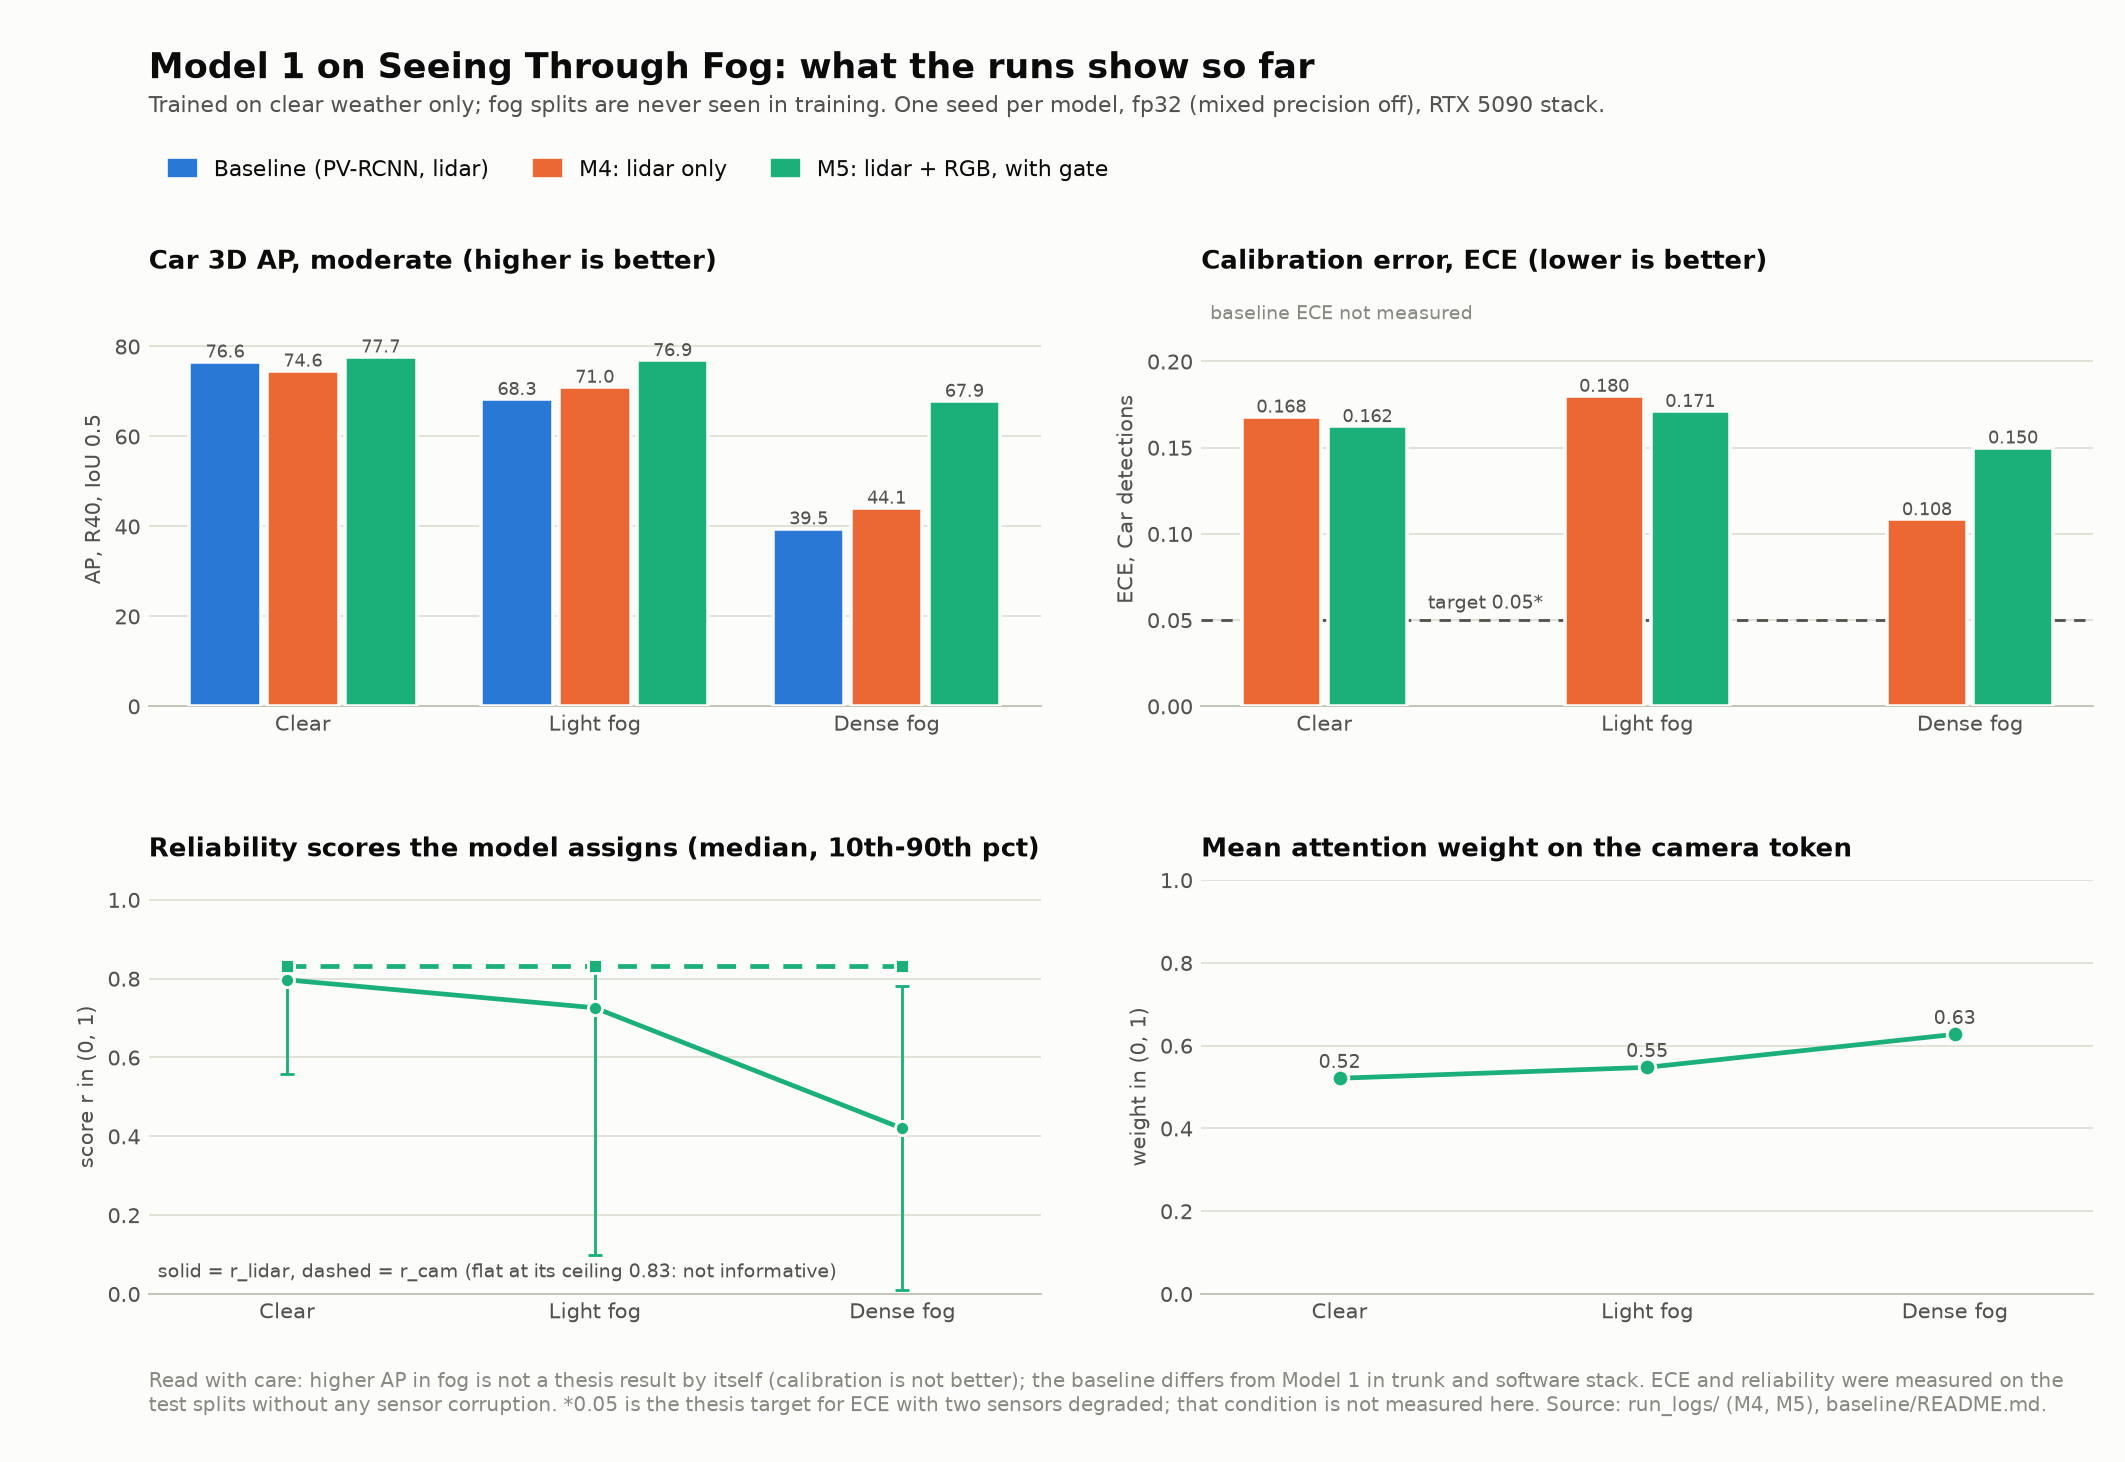
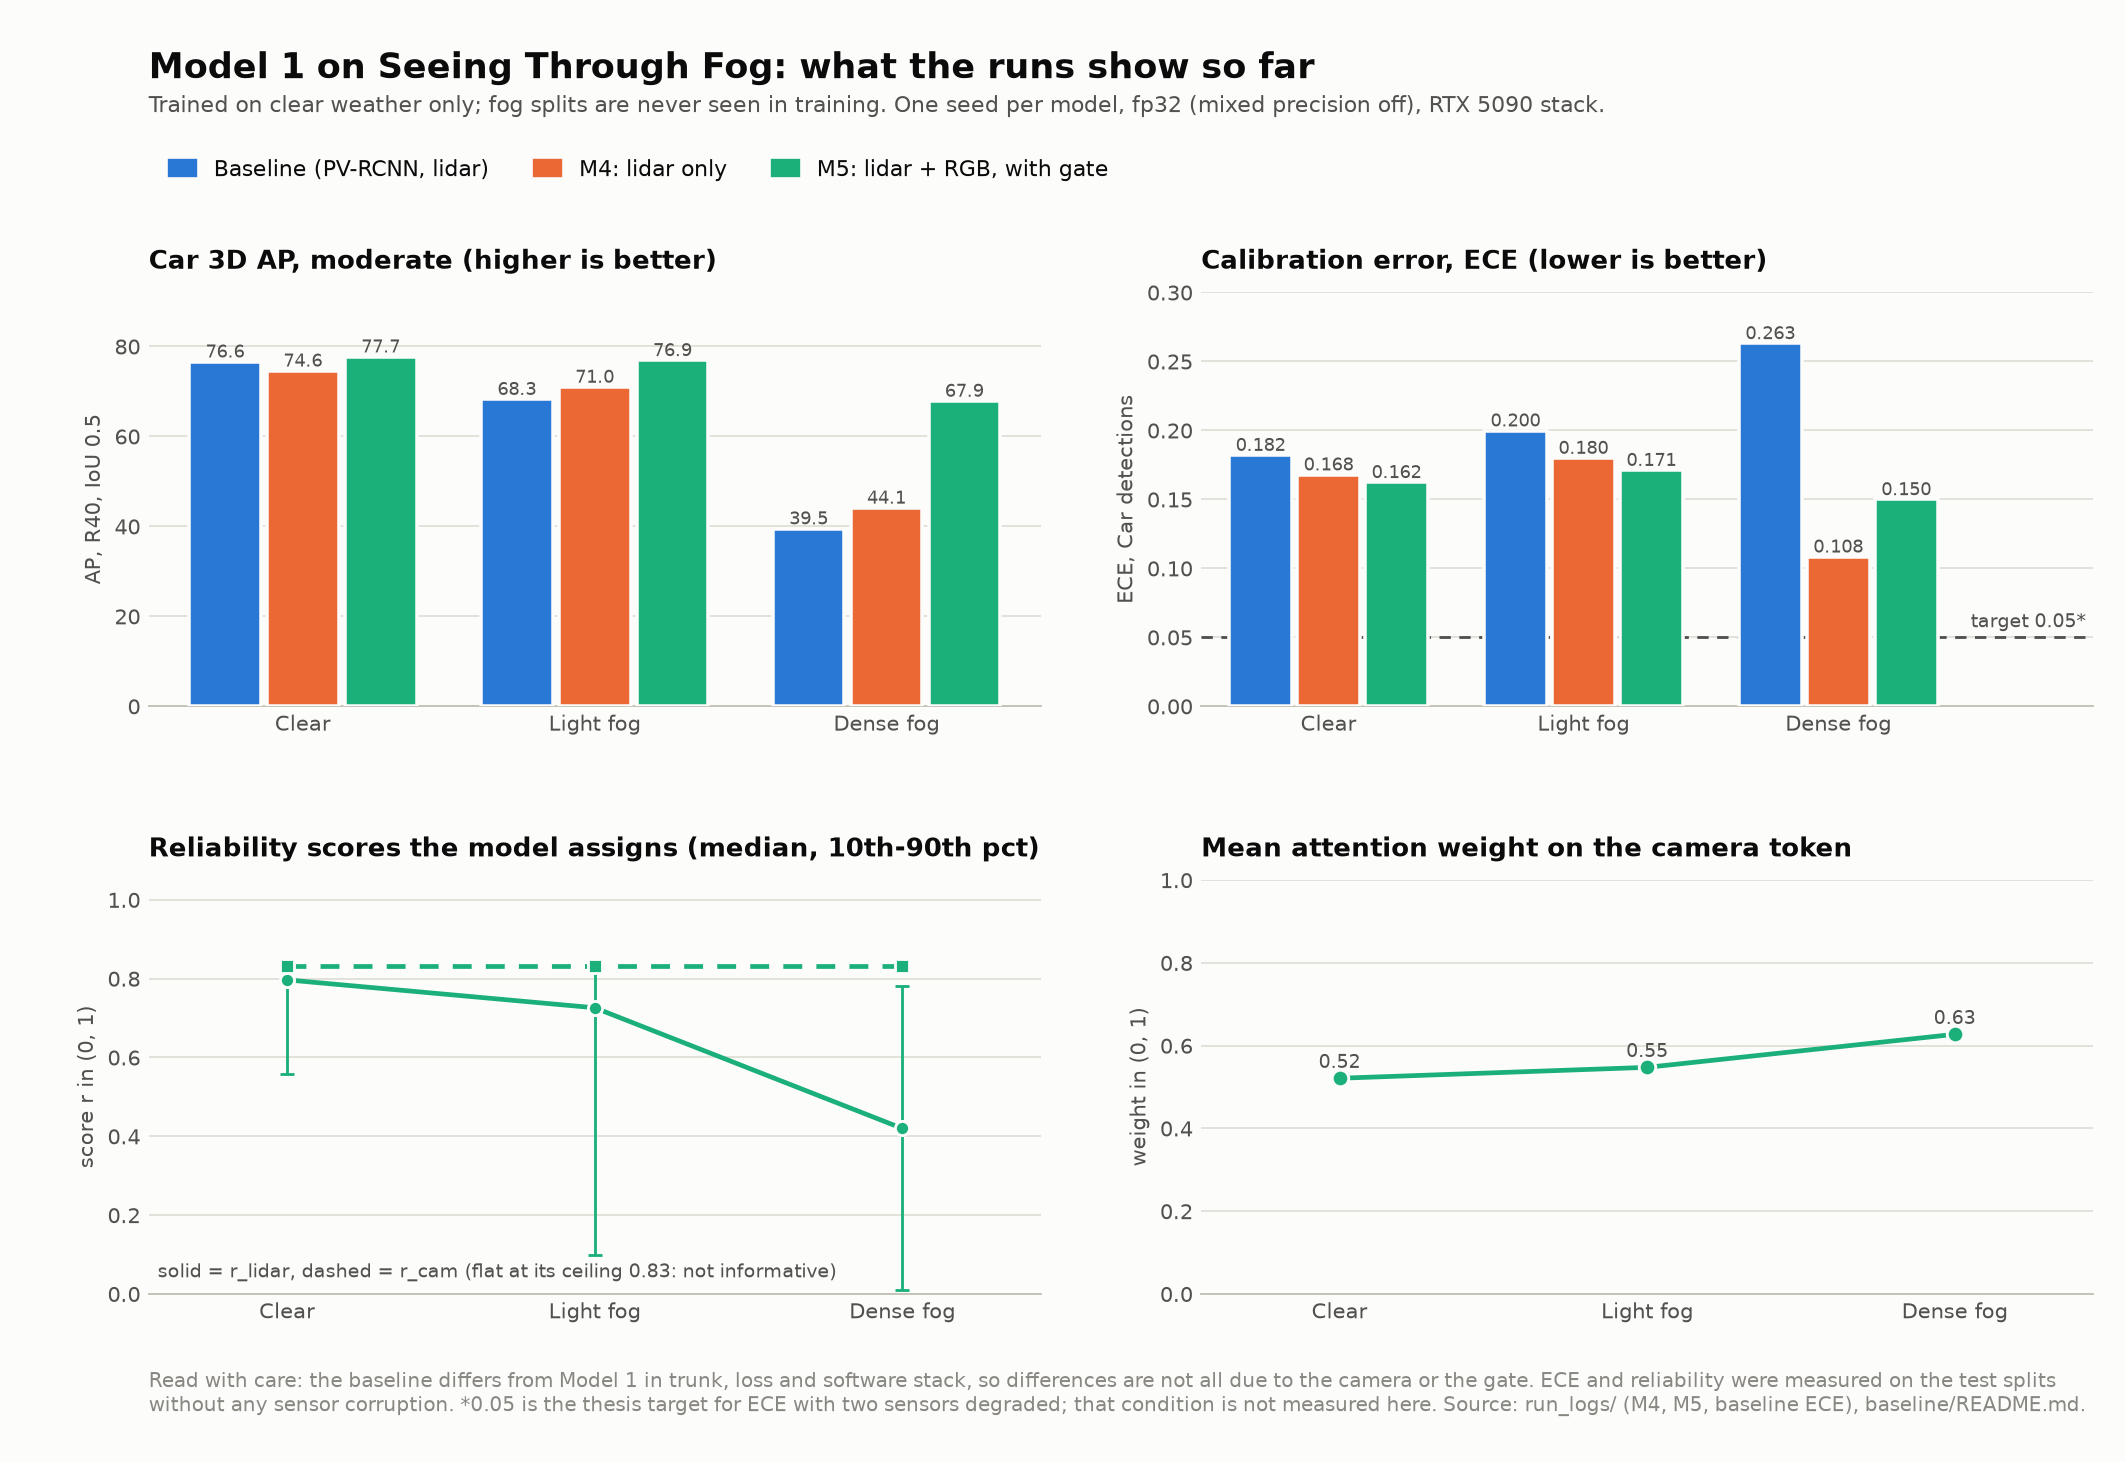
make_results_figure.py: add the baseline's ECE to the figure (--baseline-ece), fix the ECE axis
New optional --baseline-ece folder (ece_baseline_<split>.json); the ECE panel and the markdown table then include the
baseline. ECE axis raised to 0.30 so the baseline's dense-fog bar (0.263) is not clipped, the target label moved clear
of the bars, and the footer no longer says calibration is not better (it is, against the baseline). Regenerated
docs/figures/model1_results_overview.png.

Changed region(s): [[0.528, 0.2155, 0.9939, 0.5233], [0.0932, 0.9234, 0.9628, 0.985]]

diff --git a/models/model1/tools/make_results_figure.py b/models/model1/tools/make_results_figure.py
@@ -111,6 +111,8 @@ def main() -> int:
     ap.add_argument("--run", action="append", required=True, metavar="LABEL=DIR", help="M4, M5 or M4b = run_logs folder")
     ap.add_argument("--out", type=Path, required=True)
     ap.add_argument("--table-out", type=Path, default=None, help="also write the numbers as a markdown table")
+    ap.add_argument("--baseline-ece", type=Path, default=None,
+                    help="folder with ece_baseline_<split>.json (tools/eval_calibration.py on the baseline's result.pkl)")
     args = ap.parse_args()
 
     runs = {}
@@ -120,6 +122,9 @@ def main() -> int:
             raise SystemExit(f"unknown run label {label!r}; use M4, M5 or M4b")
         runs[label] = read_run(Path(path))
     order = [k for k, _, _ in ENTITIES if k == "Baseline" or k in runs]
+    base_ece = None
+    if args.baseline_ece:
+        base_ece = [json.loads((args.baseline_ece / f"ece_baseline_{s}.json").read_text())["overall"]["ece"] for s in SPLITS]
 
     fig, axes = plt.subplots(2, 2, figsize=(12.5, 8.6), facecolor=SURFACE)
     fig.subplots_adjust(left=0.07, right=0.985, top=0.80, bottom=0.115, hspace=0.42, wspace=0.18)
@@ -134,11 +139,14 @@ def main() -> int:
     ax = axes[0, 1]
     style(ax, "Calibration error, ECE (lower is better)", "ECE, Car detections")
     ece_keys = [k for k in order if k != "Baseline"]
-    grouped_bars(ax, [(k, runs[k]["ece"]) for k in ece_keys], ".3f")
+    ece_series = ([("Baseline", base_ece)] if base_ece else []) + [(k, runs[k]["ece"]) for k in ece_keys]
+    grouped_bars(ax, ece_series, ".3f")
     ax.axhline(0.05, color=INK2, linewidth=1.2, linestyle=(0, (4, 3)), zorder=2)
-    ax.text(0.5, 0.054, "target 0.05*", ha="center", va="bottom", fontsize=8, color=INK2)   # in the gap between groups
-    ax.text(0.01, 0.97, "baseline ECE not measured", transform=ax.transAxes, fontsize=8, color=MUTED, va="top")
-    ax.set_ylim(0, 0.24)
+    ax.set_xlim(-0.5, 3.0)                                                   # room at the right for the label
+    ax.text(2.52, 0.054, "target 0.05*", ha="left", va="bottom", fontsize=8, color=INK2)
+    if not base_ece:
+        ax.text(0.01, 0.97, "baseline ECE not measured", transform=ax.transAxes, fontsize=8, color=MUTED, va="top")
+    ax.set_ylim(0, 0.30)
 
     # C: reliability scores (median with 10th-90th percentile)
     ax = axes[1, 0]
@@ -176,21 +184,22 @@ def main() -> int:
              color=INK, va="top")
     fig.text(0.07, 0.935, "Trained on clear weather only; fog splits are never seen in training. One seed per model, fp32 "
              "(mixed precision off), RTX 5090 stack.", fontsize=9.5, color=INK2, va="top")
-    fig.text(0.07, 0.03, "Read with care: higher AP in fog is not a thesis result by itself (calibration is not better); "
-             "the baseline differs from Model 1 in trunk and software stack. ECE and reliability were measured on the\n"
-             "test splits without any sensor corruption. *0.05 is the thesis target for ECE with two sensors degraded; "
-             "that condition is not measured here. Source: run_logs/ (M4, M5" + (", M4b" if "M4b" in runs else "") +
-             "), baseline/README.md.", fontsize=8.5, color=MUTED, va="bottom")
+    fig.text(0.07, 0.03, "Read with care: the baseline differs from Model 1 in trunk, loss and software stack, so differences are "
+             "not all due to the camera or the gate. ECE and reliability were measured on the test splits\n"
+             "without any sensor corruption. *0.05 is the thesis target for ECE with two sensors degraded; that condition "
+             "is not measured here. Source: run_logs/ (M4, M5" + (", M4b" if "M4b" in runs else "") +
+             (", baseline ECE" if base_ece else "") + "), baseline/README.md.", fontsize=8.5, color=MUTED, va="bottom")
 
     args.out.parent.mkdir(parents=True, exist_ok=True)
     fig.savefig(args.out, dpi=170, facecolor=SURFACE)
     print("wrote", args.out)
 
-    rows = ["| Split | " + " | ".join(f"{NAME[k]} AP" for k in order) + " | " + " | ".join(f"{k} ECE" for k in ece_keys) + " |",
-            "| --- |" + " --- |" * (len(order) + len(ece_keys))]
+    ece_cols = ece_series
+    rows = ["| Split | " + " | ".join(f"{NAME[k]} AP" for k in order) + " | " + " | ".join(f"{k} ECE" for k, _ in ece_cols) + " |",
+            "| --- |" + " --- |" * (len(order) + len(ece_cols))]
     for i, s in enumerate(SPLIT_NAMES):
         ap_cells = [f"{(BASELINE_MODERATE if k == 'Baseline' else runs[k]['ap'])[i]:.2f}" for k in order]
-        ece_cells = [f"{runs[k]['ece'][i]:.3f}" for k in ece_keys]
+        ece_cells = [f"{vals[i]:.3f}" for _, vals in ece_cols]
         rows.append(f"| {s} | " + " | ".join(ap_cells + ece_cells) + " |")
     table = "\n".join(rows)
     print(table)
